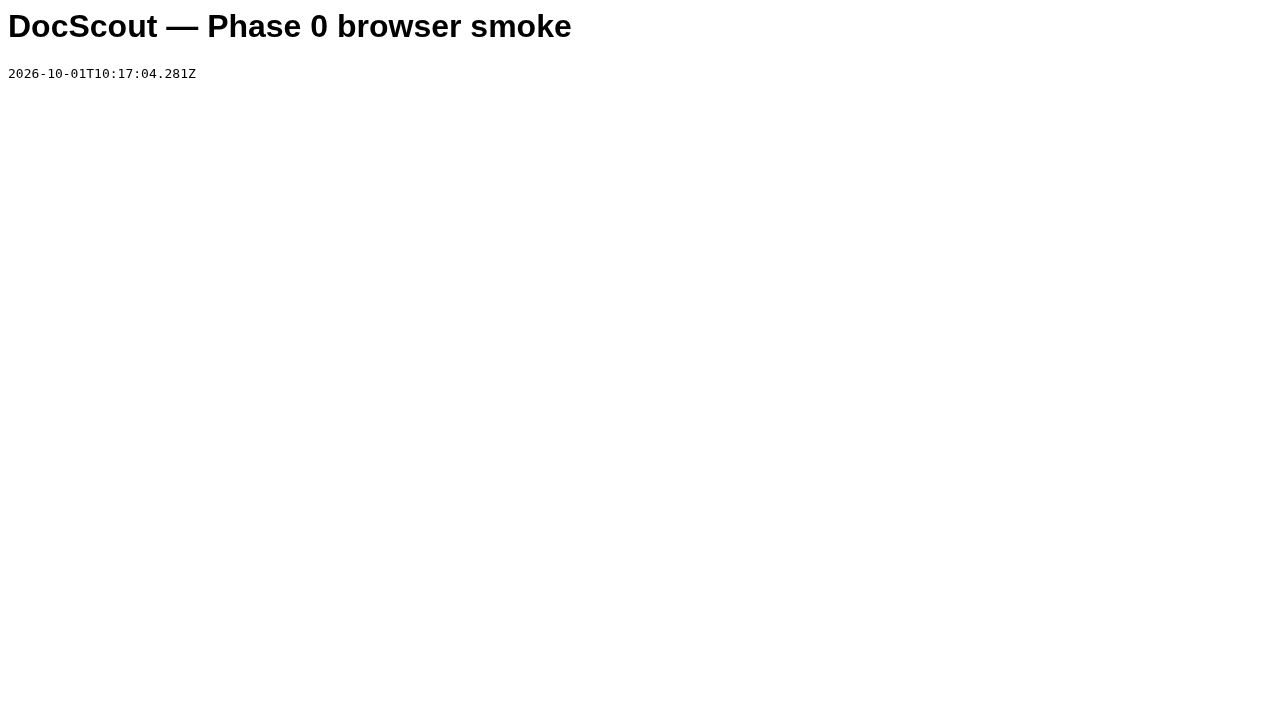
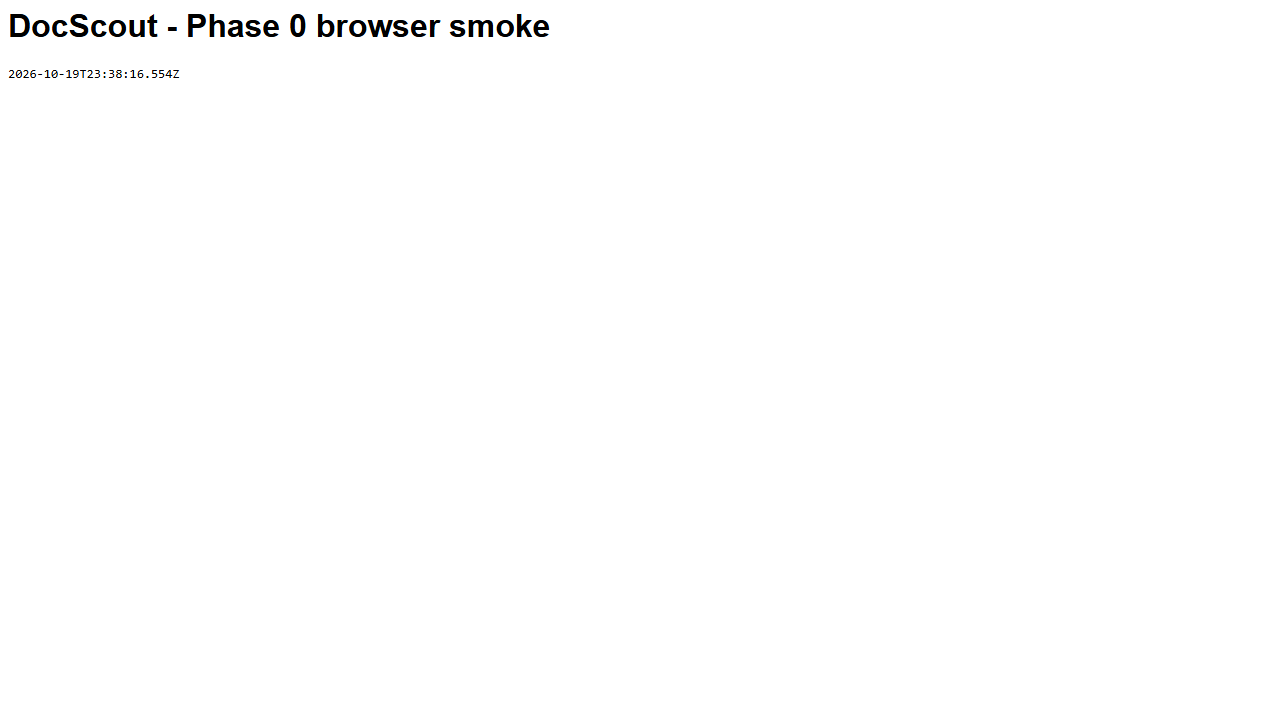
fix(ui): resolve verbatimModuleSyntax type imports and unused variables in PlaybookConsole

Changed region(s): [[0.0, 0.0, 0.4688, 0.0611], [0.0, 0.0917, 0.1562, 0.1222]]

diff --git a/ui/src/components/PlaybookConsole.tsx b/ui/src/components/PlaybookConsole.tsx
@@ -1,9 +1,7 @@
 import React, { useState, useMemo } from 'react'
 import {
   usePlaybooks,
-  PlaybookRun,
-  UsePlaybooksOptions,
-  MilestoneItem,
+  type UsePlaybooksOptions,
 } from '../hooks/usePlaybooks'
 
 export interface PlaybookConsoleProps extends UsePlaybooksOptions {
@@ -26,7 +24,6 @@ export const PlaybookConsole: React.FC<PlaybookConsoleProps> = ({
     templates,
     currentStage,
     allStages,
-    loading,
     error,
     overallProgressPct,
     stageProgressPct,
@@ -308,7 +305,6 @@ export const PlaybookConsole: React.FC<PlaybookConsoleProps> = ({
           {allStages.map((stage) => {
             const isCurrent = stage.number === activeRun.current_stage
             const isPast = stage.number < activeRun.current_stage
-            const isFuture = stage.number > activeRun.current_stage
             const isInspected = inspectedStage?.number === stage.number
 
             return (

diff --git a/ui/src/hooks/usePlaybooks.ts b/ui/src/hooks/usePlaybooks.ts
@@ -361,6 +361,7 @@ export function usePlaybooks(options?: UsePlaybooksOptions): UsePlaybooksResult 
 
   const fetchRun = useCallback(async () => {
     if (!apiBaseUrl) return
+    setLoading(true)
     try {
       const res = await fetch(
         `${apiBaseUrl}/v1/playbooks/${runId}?tenant_id=${tenantId}`,
@@ -381,6 +382,8 @@ export function usePlaybooks(options?: UsePlaybooksOptions): UsePlaybooksResult 
     } catch (err: unknown) {
       const message = err instanceof Error ? err.message : 'Network error'
       setError(message)
+    } finally {
+      setLoading(false)
     }
   }, [apiBaseUrl, runId, tenantId, apiKey])
 
